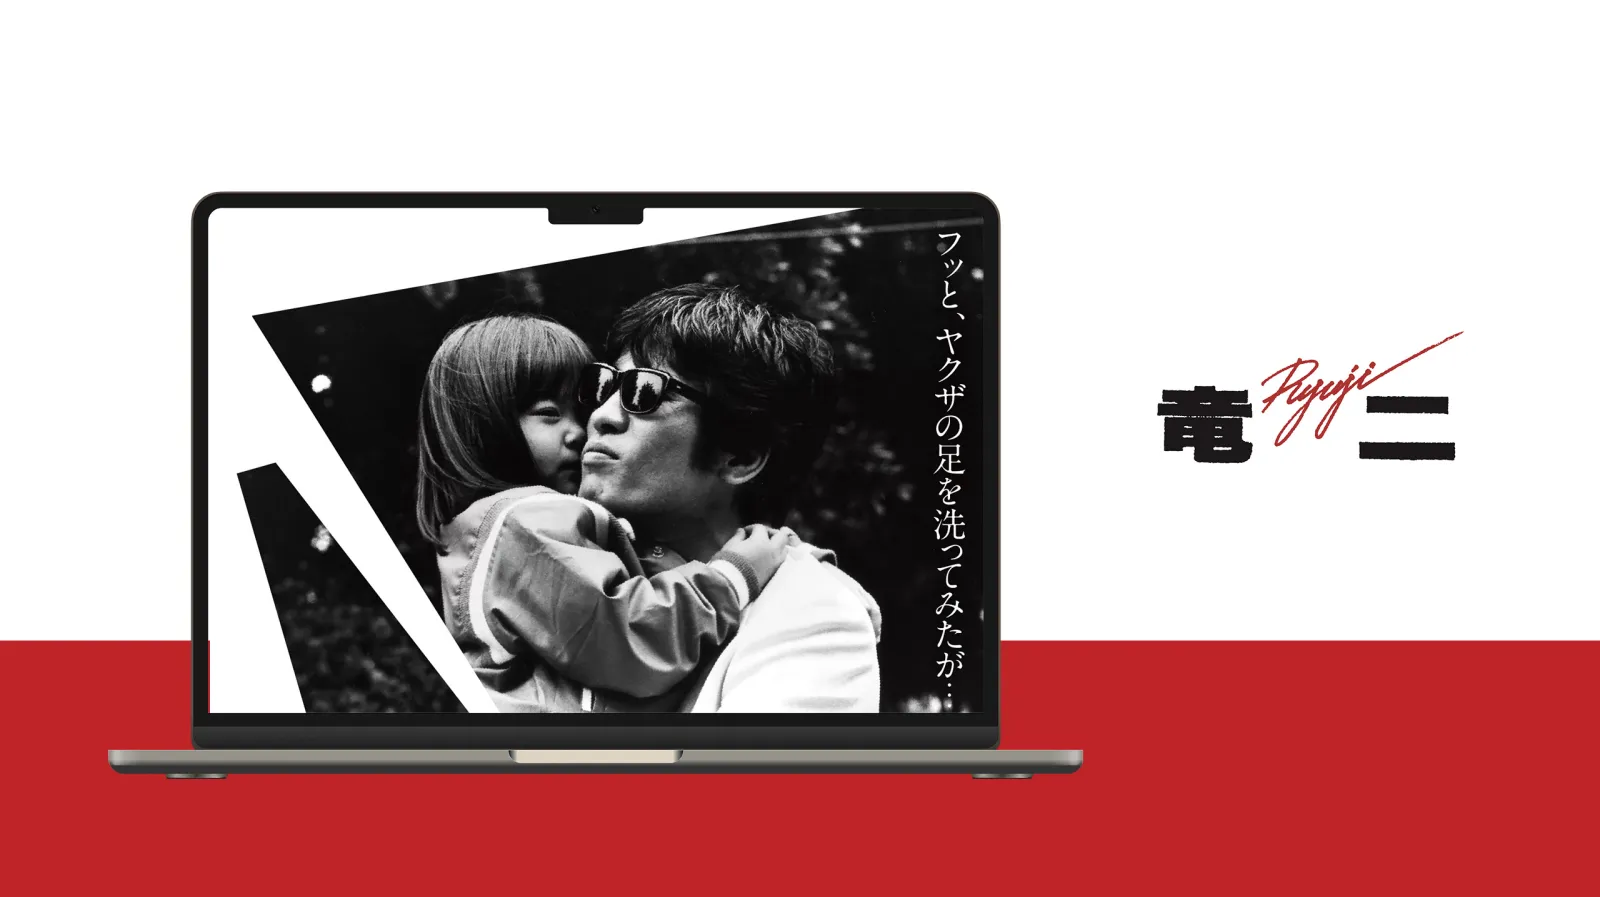
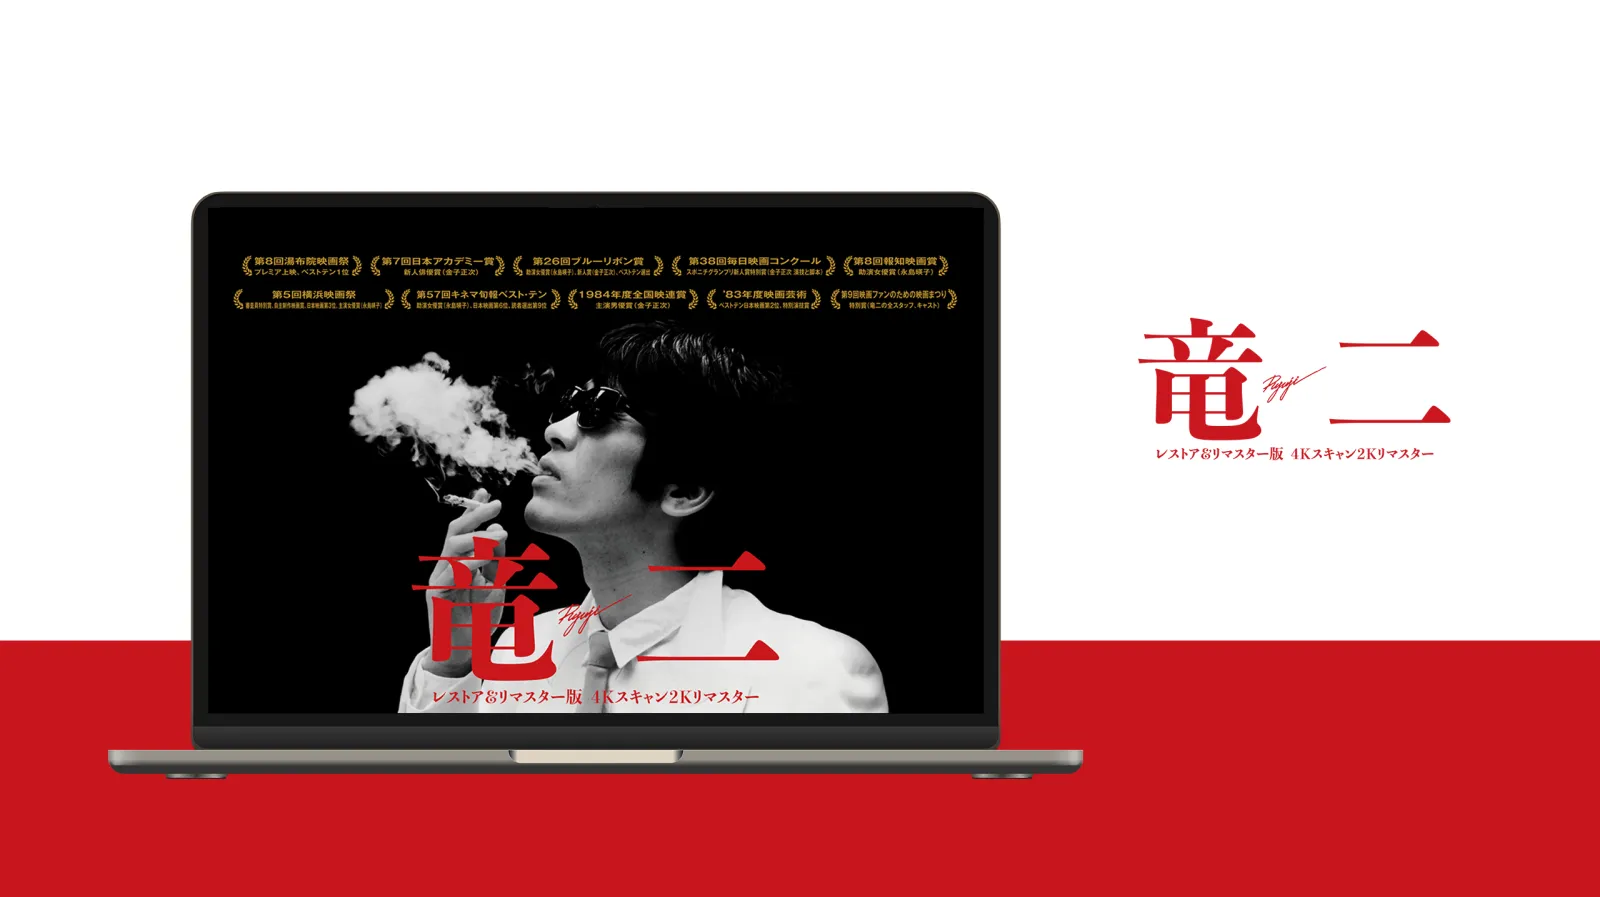
竜二の詳細ページを作成、モックアップを2026年版に差し替え

diff --git a/works/ryuji/index.html b/works/ryuji/index.html
@@ -1,0 +1,174 @@
+<!DOCTYPE html>
+<html lang="ja">
+<head>
+  <meta charset="UTF-8">
+  <meta name="viewport" content="width=device-width, initial-scale=1.0">
+  <title>映画『竜二』｜ODDITIMANA</title>
+  <link rel="preconnect" href="https://fonts.googleapis.com">
+  <link rel="preconnect" href="https://fonts.gstatic.com" crossorigin>
+  <link rel="stylesheet" href="https://fonts.googleapis.com/css2?family=Noto+Sans+JP:wght@400;700&family=Six+Caps&display=swap">
+  <link rel="stylesheet" href="../../css/style.css">
+  <script src="../../js/main.js" defer></script>
+</head>
+<body>
+
+  <header class="site-header site-header--overlay site-header--on-light">
+    <div class="container site-header__inner">
+      <!-- TODO: images/logo.svg ができたら <img src="../../images/logo.svg" alt="ODDITIMANA"> に差し替え -->
+      <a class="site-logo" href="../../index.html">ODDITIMANA</a>
+      <button class="nav-toggle" type="button" aria-expanded="false" aria-controls="global-nav" aria-label="メニューを開く">
+        <span class="nav-toggle__bar"></span>
+      </button>
+      <nav class="global-nav" id="global-nav" aria-label="グローバルナビゲーション">
+        <ul class="global-nav__list">
+          <li><a class="global-nav__link" href="../../index.html" aria-current="true">WORKS</a></li>
+          <li><a class="global-nav__link" href="../../about/index.html">ABOUT</a></li>
+        </ul>
+      </nav>
+    </div>
+  </header>
+
+  <main class="work-detail">
+    <article>
+      <figure class="work-detail__hero">
+        <img src="../../images/works/ryuji/hero-1280.webp" srcset="../../images/works/ryuji/hero-1280.webp 1280w, ../../images/works/ryuji/hero.webp 2560w" sizes="(max-width: 767px) 189vw, 100vw" alt="" width="2560" height="1434">
+      </figure>
+
+      <div class="container">
+        <h1 class="work-detail__title">映画『竜二』</h1>
+
+        <div class="work-detail__lead">
+          <p>映画『竜二』の<wbr>公式サイト。<wbr>2023年の<wbr>上映に合わせた<wbr>サイトに続き、<wbr>2026年の<wbr>レストア版公開に<wbr>あわせて<wbr>リニューアルを<wbr>担当しました。</p>
+        </div>
+
+        <section class="work-version" aria-labelledby="version-2026-title">
+          <h2 class="section-title" id="version-2026-title">2026</h2>
+
+          <div class="work-detail__lead">
+            <p>「情報は削り、<wbr>チラシの表と裏<wbr>くらいの量で、<wbr>絵と構図で見せる」を<wbr>コンセプトに、<wbr>白地と墨、<wbr>題字の赤だけで<wbr>組んでいます。<wbr>詳しい情報は<wbr>2023年版サイトへ<wbr>送る構成です。<wbr>HTML・<wbr>CSS・<wbr>JavaScriptの<wbr>バニラ構成で、<wbr>Claude Codeを<wbr>活用して<wbr>コーディングしました。</p>
+          </div>
+
+          <dl class="info-list work-detail__info">
+            <div class="info-list__row">
+              <dt>担当範囲</dt>
+              <dd>デザイン／<wbr>コーディング<wbr>（ディレクションは<wbr>別担当）</dd>
+            </div>
+            <div class="info-list__row">
+              <dt>制作時期</dt>
+              <dd>2026年10月<wbr>（約2週間）</dd>
+            </div>
+            <div class="info-list__row">
+              <dt>URL</dt>
+              <dd><a class="line-link" href="https://makotoyacoltd.jp/ryuji/" target="_blank" rel="noopener">https://makotoyacoltd.jp/<wbr>ryuji/</a></dd>
+            </div>
+          </dl>
+
+          <section class="work-shots" aria-labelledby="opening-title">
+            <h3 class="work-shots__title" id="opening-title">OPENING</h3>
+            <ol class="shot-list shot-list--steps">
+              <li class="shot">
+                <span class="shot__step" aria-hidden="true">①</span>
+                <button class="shot__zoom" type="button" data-large="../../images/works/ryuji/pc-opening-01-large.webp" aria-haspopup="dialog" aria-label="オープニング①（PC表示）を拡大表示">
+                  <img src="../../images/works/ryuji/pc-opening-01.webp" alt="オープニング①：白地に縦組みのコピー「フッと、ヤクザの足を洗ってみたが…」（PC表示）" width="1200" height="616" loading="lazy">
+                </button>
+              </li>
+              <li class="shot">
+                <span class="shot__step" aria-hidden="true">②</span>
+                <button class="shot__zoom" type="button" data-large="../../images/works/ryuji/pc-opening-02-large.webp" aria-haspopup="dialog" aria-label="オープニング②（PC表示）を拡大表示">
+                  <img src="../../images/works/ryuji/pc-opening-02.webp" alt="オープニング②：黒地に斜めに組んだコピー「日本映画史に語り継がれる伝説が 4Kスキャン2Kリマスターで鮮やかによみがえる!」（PC表示）" width="1200" height="616" loading="lazy">
+                </button>
+              </li>
+              <li class="shot">
+                <span class="shot__step" aria-hidden="true">③</span>
+                <button class="shot__zoom" type="button" data-large="../../images/works/ryuji/pc-hero-large.webp" aria-haspopup="dialog" aria-label="オープニング③ キービジュアル（PC表示）を拡大表示">
+                  <img src="../../images/works/ryuji/pc-hero.webp" alt="オープニング③：受賞歴と赤い題字「竜二」を配したキービジュアル（PC表示）" width="1200" height="616" loading="lazy">
+                </button>
+              </li>
+            </ol>
+            <p class="shot__caption">映画の冒頭のように、<wbr>2つのコピーから<wbr>キービジュアルへと<wbr>場面を<wbr>切り替えていく<wbr>オープニングにしました。</p>
+          </section>
+
+          <section class="work-shots" aria-labelledby="shots-sp-title">
+            <h3 class="work-shots__title" id="shots-sp-title">SMARTPHONE</h3>
+            <ul class="shot-list shot-list--sp">
+              <li class="shot">
+                <button class="shot__zoom" type="button" data-large="../../images/works/ryuji/sp-hero-large.webp" aria-haspopup="dialog" aria-label="トップページのファーストビュー（スマホ表示）を拡大表示">
+                  <img src="../../images/works/ryuji/sp-hero.webp" alt="トップページのファーストビュー（スマホ表示）" width="600" height="1067" loading="lazy">
+                </button>
+                <p class="shot__caption">受賞歴を<wbr>2列に<wbr>組み替え、<wbr>縦長の画面でも<wbr>キービジュアルが<wbr>主役になるように<wbr>しています。</p>
+              </li>
+            </ul>
+          </section>
+
+          <section class="work-shots" aria-labelledby="how-title">
+            <h3 class="work-shots__title" id="how-title">HOW I BUILT</h3>
+            <ul class="task-list">
+              <li>判断は自分、<wbr>実装は<wbr>Claude Code、<wbr>確認は自分<wbr>という分担で<wbr>進行。<wbr>AIには<wbr>「推測で書かない」<wbr>「実装前に<wbr>設計を提示して<wbr>承認を得る」<wbr>などのルールを課し、<wbr>作業ルールを<wbr>ファイルにまとめて<wbr>管理しました。</li>
+              <li>見た目を<wbr>変えない修正では、<wbr>変更前後の<wbr>画面の部品の<wbr>位置・<wbr>大きさ・<wbr>色を<wbr>自動で記録・<wbr>比較し、<wbr>崩れていないことを<wbr>確かめています。</li>
+              <li>公開は<wbr>専用のスクリプトに<wbr>一本化。<wbr>公開するファイルを<wbr>一覧で管理し、<wbr>コメントを除いて<wbr>アップロード。<wbr>社内向けの言葉が<wbr>残っていれば<wbr>公開を止める<wbr>仕組みにしています。</li>
+              <li>サーバー設定で、<wbr>httpsへの転送、<wbr>旧サイトの<wbr>画像URLを<wbr>2023年版へ転送、<wbr>404ページの表示、<wbr>ファイルの圧縮を<wbr>行っています。</li>
+            </ul>
+          </section>
+        </section>
+
+        <section class="work-version" aria-labelledby="version-2023-title">
+          <h2 class="section-title" id="version-2023-title">2023</h2>
+
+          <div class="work-detail__lead">
+            <p>2023年の<wbr>上映に合わせて<wbr>制作したサイトです。</p>
+          </div>
+
+          <dl class="info-list work-detail__info">
+            <div class="info-list__row">
+              <dt>担当範囲</dt>
+              <dd>デザイン／<wbr>WordPress（Elementor）構築</dd>
+            </div>
+            <div class="info-list__row">
+              <dt>制作時期</dt>
+              <dd>2023年7月〜9月</dd>
+            </div>
+            <div class="info-list__row">
+              <dt>URL</dt>
+              <dd><a class="line-link" href="https://makotoyacoltd.jp/ryuji2023/" target="_blank" rel="noopener">https://makotoyacoltd.jp/<wbr>ryuji2023/</a></dd>
+            </div>
+          </dl>
+
+          <ul class="shot-list work-version__shots">
+            <li class="shot">
+              <button class="shot__zoom" type="button" data-large="../../images/works/ryuji/2023-pc-hero-large.webp" aria-haspopup="dialog" aria-label="2023年版のファーストビュー（PC表示）を拡大表示">
+                <img src="../../images/works/ryuji/2023-pc-hero.webp" alt="2023年版のファーストビュー：斜めに切り取った写真に縦組みのコピー（PC表示）" width="1200" height="605" loading="lazy">
+              </button>
+              <p class="shot__caption">写真を<wbr>斜めに切り取った<wbr>レイアウトに、<wbr>縦組みのコピーを<wbr>重ねた<wbr>ファーストビューです。</p>
+            </li>
+          </ul>
+        </section>
+
+        <nav class="work-pager" aria-label="作品の移動">
+          <a class="work-pager__link line-link" href="../../index.html#websites-title">一覧に戻る</a>
+          <a class="work-pager__next" href="../cafoscari/index.html">
+            <span class="work-pager__label">次の作品</span>
+            <span class="work-pager__title line-link">ベネチア・<wbr>カフォスカリ<wbr>短編映画祭 in JAPAN</span>
+          </a>
+        </nav>
+      </div>
+    </article>
+  </main>
+
+  <dialog class="lightbox" aria-label="画面キャプチャの拡大表示">
+    <button class="lightbox__close" type="button" aria-label="閉じる"></button>
+    <img class="lightbox__image" alt="">
+  </dialog>
+
+  <footer class="site-footer">
+    <div class="container">
+      <a class="site-footer__logo" href="../../index.html">ODDITIMANA</a>
+      <ul class="site-footer__links">
+        <li><a class="line-link" href="mailto:hello@odditimana.com">hello@odditimana.com</a></li>
+        <li><a class="line-link" href="https://github.com/odditymana" target="_blank" rel="noopener">GitHub</a></li>
+      </ul>
+      <small class="site-footer__copy">Copyright &copy; 2026 ODDITIMANA</small>
+    </div>
+  </footer>
+
+</body>
+</html>

diff --git a/css/style.css b/css/style.css
@@ -1153,6 +1153,31 @@ body:has(.lightbox[open]) {
   overflow-wrap: anywhere;
 }
 
+/* 1ページで複数の版（竜二の 2026 / 2023）を見せるときの区切り。見出しは .section-title */
+.work-version {
+  margin-top: var(--space-xl);
+}
+
+.work-version__shots {
+  margin-top: var(--space-l);
+}
+
+/* 絵コンテのように順番を見せるキャプチャ（PCは横3列）。順番は ol で伝え、①②③は飾り */
+.shot-list--steps {
+  margin: 0;
+  padding: 0;
+  list-style: none;
+}
+
+.shot__step {
+  display: block;
+  margin-bottom: var(--space-xs);
+  color: var(--color-label);
+  font-size: 16px;
+  font-weight: 700;
+  line-height: 1;
+}
+
 /* 担当した作業の箇条書き（キャプチャを載せない保守案件用）。
    情報の dl（.info-list）と同じく、細い線で項目を区切る */
 .task-list {
@@ -1275,6 +1300,16 @@ body:has(.lightbox[open]) {
 
   .task-list li {
     font-size: 16px;
+  }
+
+  .shot-list--steps {
+    grid-template-columns: repeat(3, 1fr);
+    gap: var(--space-m);
+  }
+
+  /* 前の版は今の版より目立たないよう、幅を抑えて左揃えにする */
+  .work-version__shots {
+    max-width: 720px;
   }
 
   /* 実際のサイトでの表示サイズに近づけるため、幅を抑えて左揃えにする */
